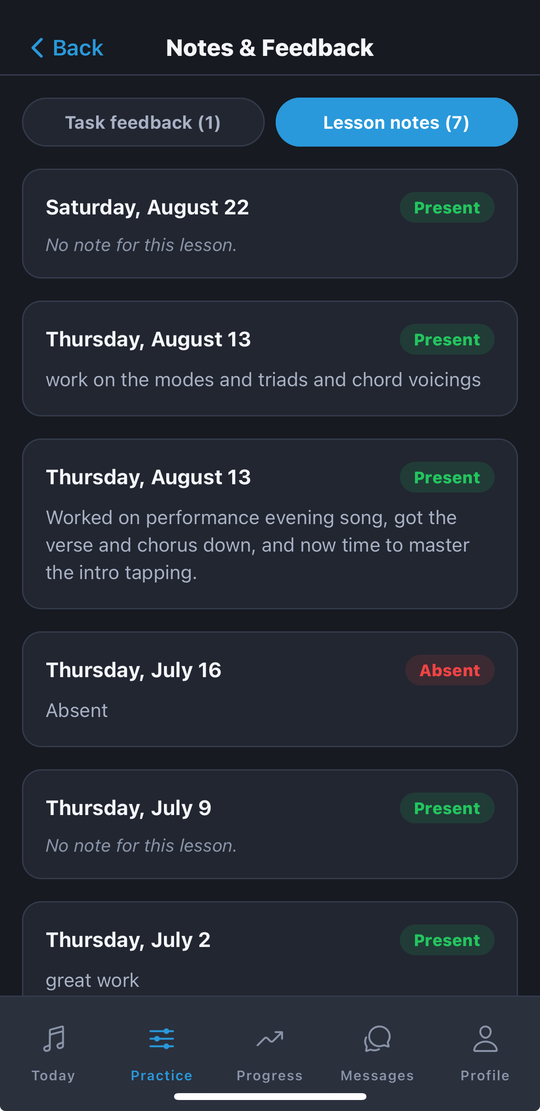
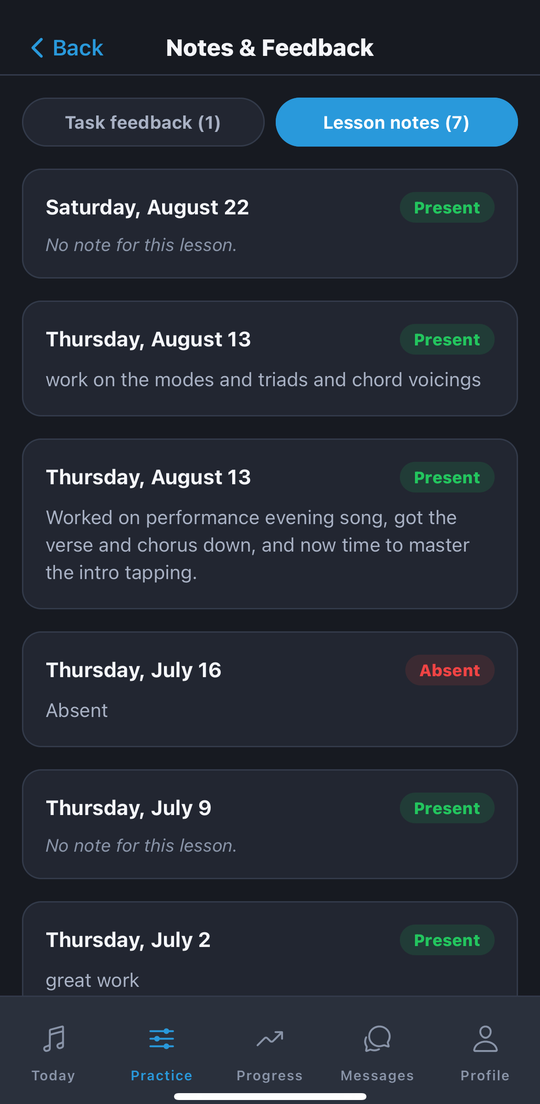
Stop the screenshots stretching in the look-inside row
.shots is a flex row and flex items stretch on the cross axis by default, so
the two shorter images were being pulled vertically to match the tallest. It
never showed before because all three of the old shots were exactly 295x640 —
identical, so the stretch had nothing to do. The new ones were hand-cropped and
differ by about 1%, and that was enough to distort them.

Two fixes rather than one, because either alone leaves a trap: align-items on
the row and height:auto on the image, so this can't come back if the row is
ever restyled.

The generator now also trims every shot to the shortest one's height, taking
it off the bottom where the home indicator sits, so the row lines up exactly
instead of relying on the sources happening to match. All three are 540x1104,
and the width/height attributes in the page were corrected to match — they
still claimed 1117.

diff --git a/web/index.html b/web/index.html
@@ -109,7 +109,10 @@
   .cta.store .lbl small { font-size: 10.5px; font-weight: 600; opacity: .85; letter-spacing: .3px; }
   .cta.store .lbl b { font-size: 17px; font-weight: 700; letter-spacing: -.2px; }
 
-  .phone { width: 250px; border-radius: 34px; border: 2px solid #333B4A;
+  /* height:auto so the image keeps its own proportions. Without it a flex row
+     stretches every item to the tallest one's height — invisible while all
+     three screenshots were exactly 295x640, obvious the moment they weren't. */
+  .phone { width: 250px; height: auto; border-radius: 34px; border: 2px solid #333B4A;
     box-shadow: 0 30px 80px rgba(59,130,246,0.14); }
   .heroGlow { position: relative; }
   .heroGlow::before { content: ''; position: absolute; inset: -60px; border-radius: 50%;
@@ -137,7 +140,7 @@
   .safe .cols b { display: block; margin-bottom: 6px; font-size: 15px; }
   .safe .cols p { color: #A8B2C4; font-size: 14px; }
 
-  .shots { display: flex; gap: 26px; justify-content: center; flex-wrap: wrap; }
+  .shots { display: flex; gap: 26px; justify-content: center; align-items: flex-start; flex-wrap: wrap; }
 
   .contact { text-align: center; padding: 70px 0; }
   .contact h2 { font-size: 30px; }
@@ -176,7 +179,7 @@
     <a class="cta ghost" href="#teachers">For teachers →</a>
     <span class="badge">Free on iPhone · iOS 15.1 or later</span>
   </div>
-  <div class="heroGlow"><img class="phone" src="/img/shot-today.png" width="540" height="1117"
+  <div class="heroGlow"><img class="phone" src="/img/shot-today.png" width="540" height="1104"
     alt="Prova's Today screen — a three-day streak, the week so far, and nine exercises to work through"></div>
 </div>
 
@@ -251,9 +254,9 @@
   <h2 style="text-align:center">A look inside</h2>
   <p class="lead" style="text-align:center;margin-left:auto;margin-right:auto">The day's plan, the notes your teacher left, and the chords to go with them.</p>
   <div class="shots">
-    <img class="phone" src="/img/shot-today.png" width="540" height="1117" loading="lazy"
+    <img class="phone" src="/img/shot-today.png" width="540" height="1104" loading="lazy"
       alt="Today's practice: a three-day streak, nine exercises and the day's first warm-up">
-    <img class="phone" src="/img/shot-notes.png" width="540" height="1111" loading="lazy"
+    <img class="phone" src="/img/shot-notes.png" width="540" height="1104" loading="lazy"
       alt="Notes and feedback: what the teacher wrote after each lesson, with attendance">
     <img class="phone" src="/img/shot-chords.png" width="540" height="1104" loading="lazy"
       alt="The chord library: diagrams for C, Cmaj7, C7, Cm and more, filterable by root and type">

diff --git a/scripts/make-site-screenshots.py b/scripts/make-site-screenshots.py
@@ -38,20 +38,33 @@ def main():
         print(f'No such folder: {SRC}')
         raise SystemExit(1)
 
-    for src_name, out_name, what in SHOTS:
-        path = os.path.join(SRC, src_name)
-        if not os.path.exists(path):
-            print(f'  missing: {src_name} — skipped')
-            continue
-        im = Image.open(path).convert('RGB')
+    found = [(s, o, w) for s, o, w in SHOTS if os.path.exists(os.path.join(SRC, s))]
+    for s, _, _ in SHOTS:
+        if not os.path.exists(os.path.join(SRC, s)):
+            print(f'  missing: {s} — skipped')
+    if not found:
+        raise SystemExit(1)
+
+    # The sources were cropped by hand and differ by about 1% in height, which
+    # left the row on the site sitting at three slightly different heights.
+    # Everything is trimmed from the bottom — the home-indicator strip — to the
+    # shortest of them, so they line up exactly.
+    scaled = []
+    for src_name, out_name, what in found:
+        im = Image.open(os.path.join(SRC, src_name)).convert('RGB')
         h = round(im.height * (WIDTH / im.width))
-        im = im.resize((WIDTH, h), Image.LANCZOS)
+        scaled.append((im.resize((WIDTH, h), Image.LANCZOS), out_name, what))
+    height = min(im.height for im, _, _ in scaled)
+
+    for im, out_name, what in scaled:
+        if im.height > height:
+            im = im.crop((0, 0, WIDTH, height))
         dest = os.path.join(OUT, out_name)
         im.save(dest, optimize=True)
         kb = os.path.getsize(dest) // 1024
-        print(f'  {out_name:18} {WIDTH}x{h}  {kb} KB   ({what})')
+        print(f'  {out_name:18} {WIDTH}x{height}  {kb} KB   ({what})')
 
-    print(f'\n{len(SHOTS)} images -> {OUT}')
+    print(f'\n{len(scaled)} images at {WIDTH}x{height} -> {OUT}')
 
 
 if __name__ == '__main__':
